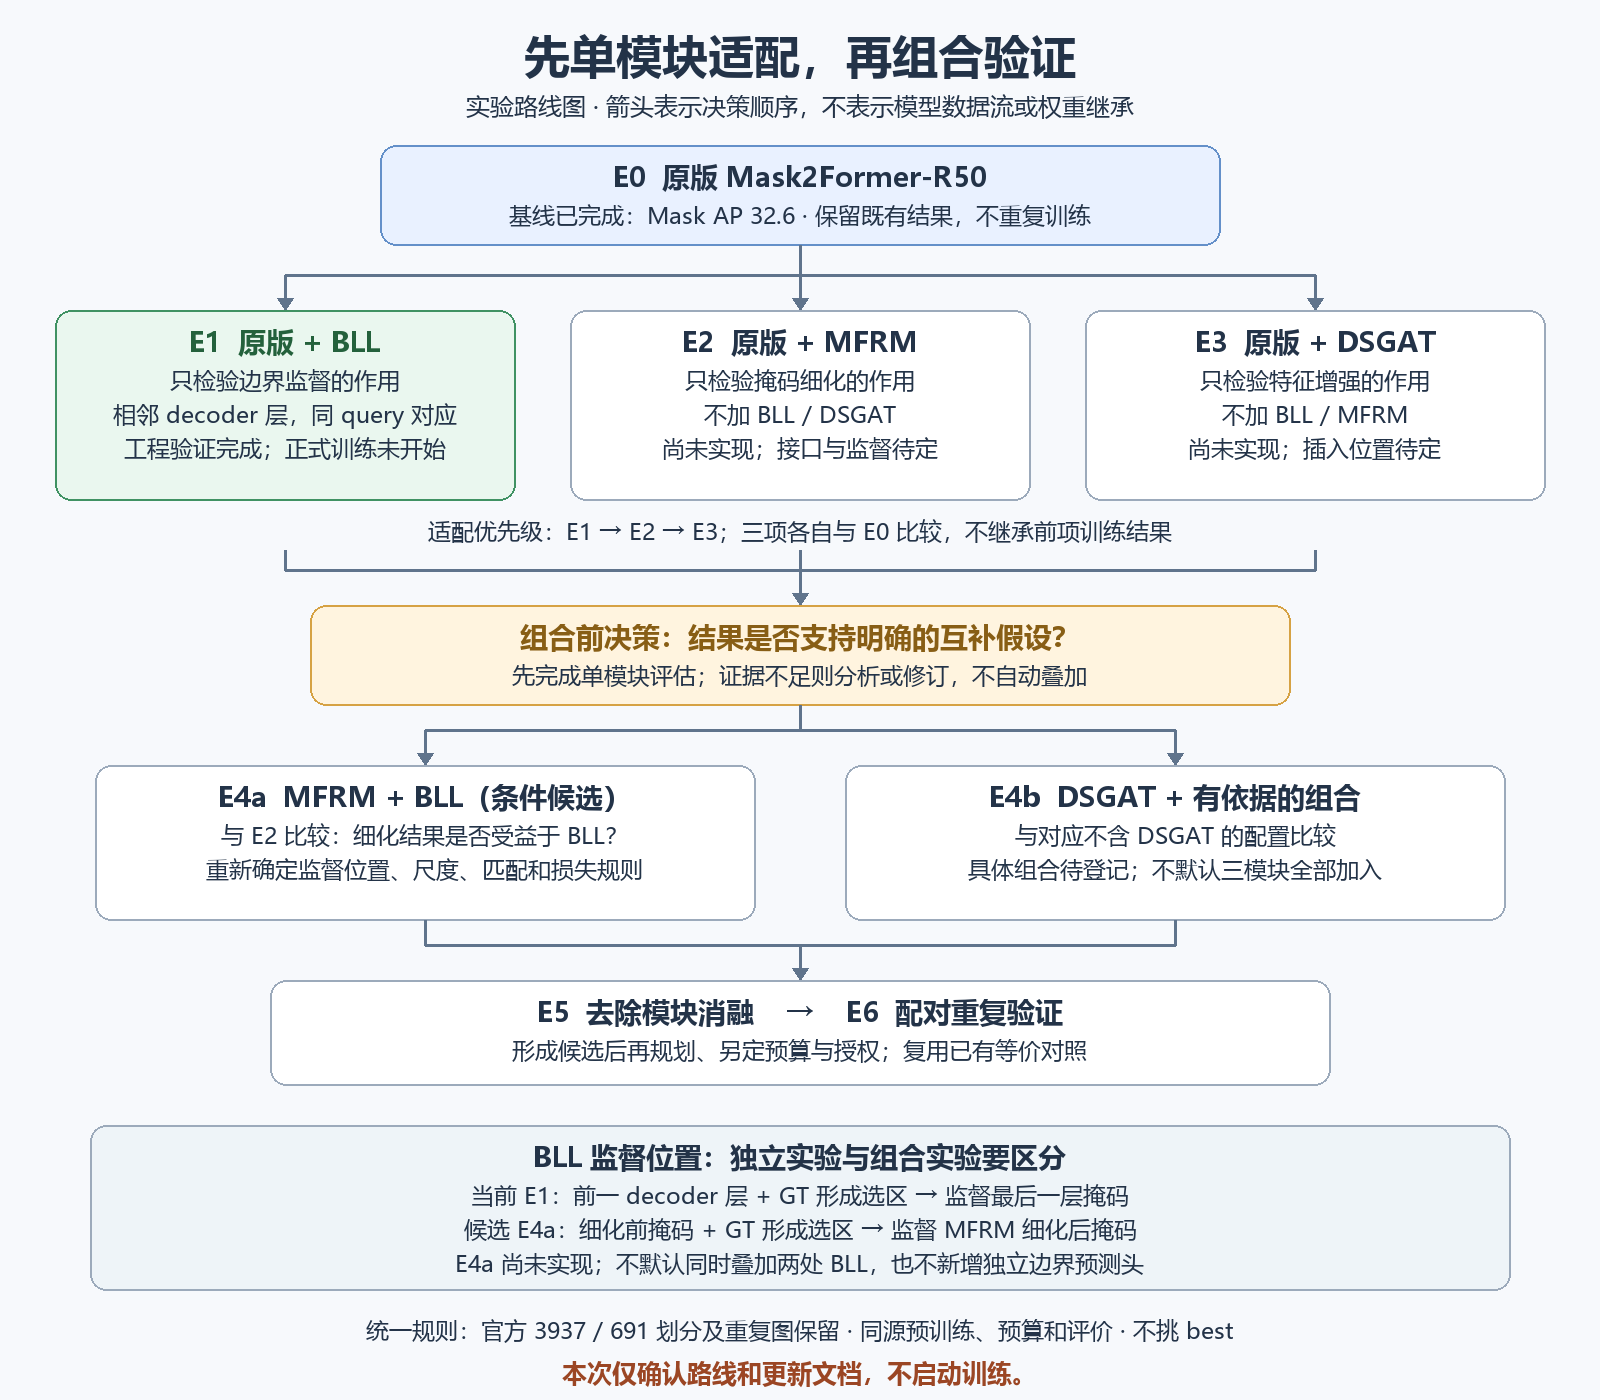
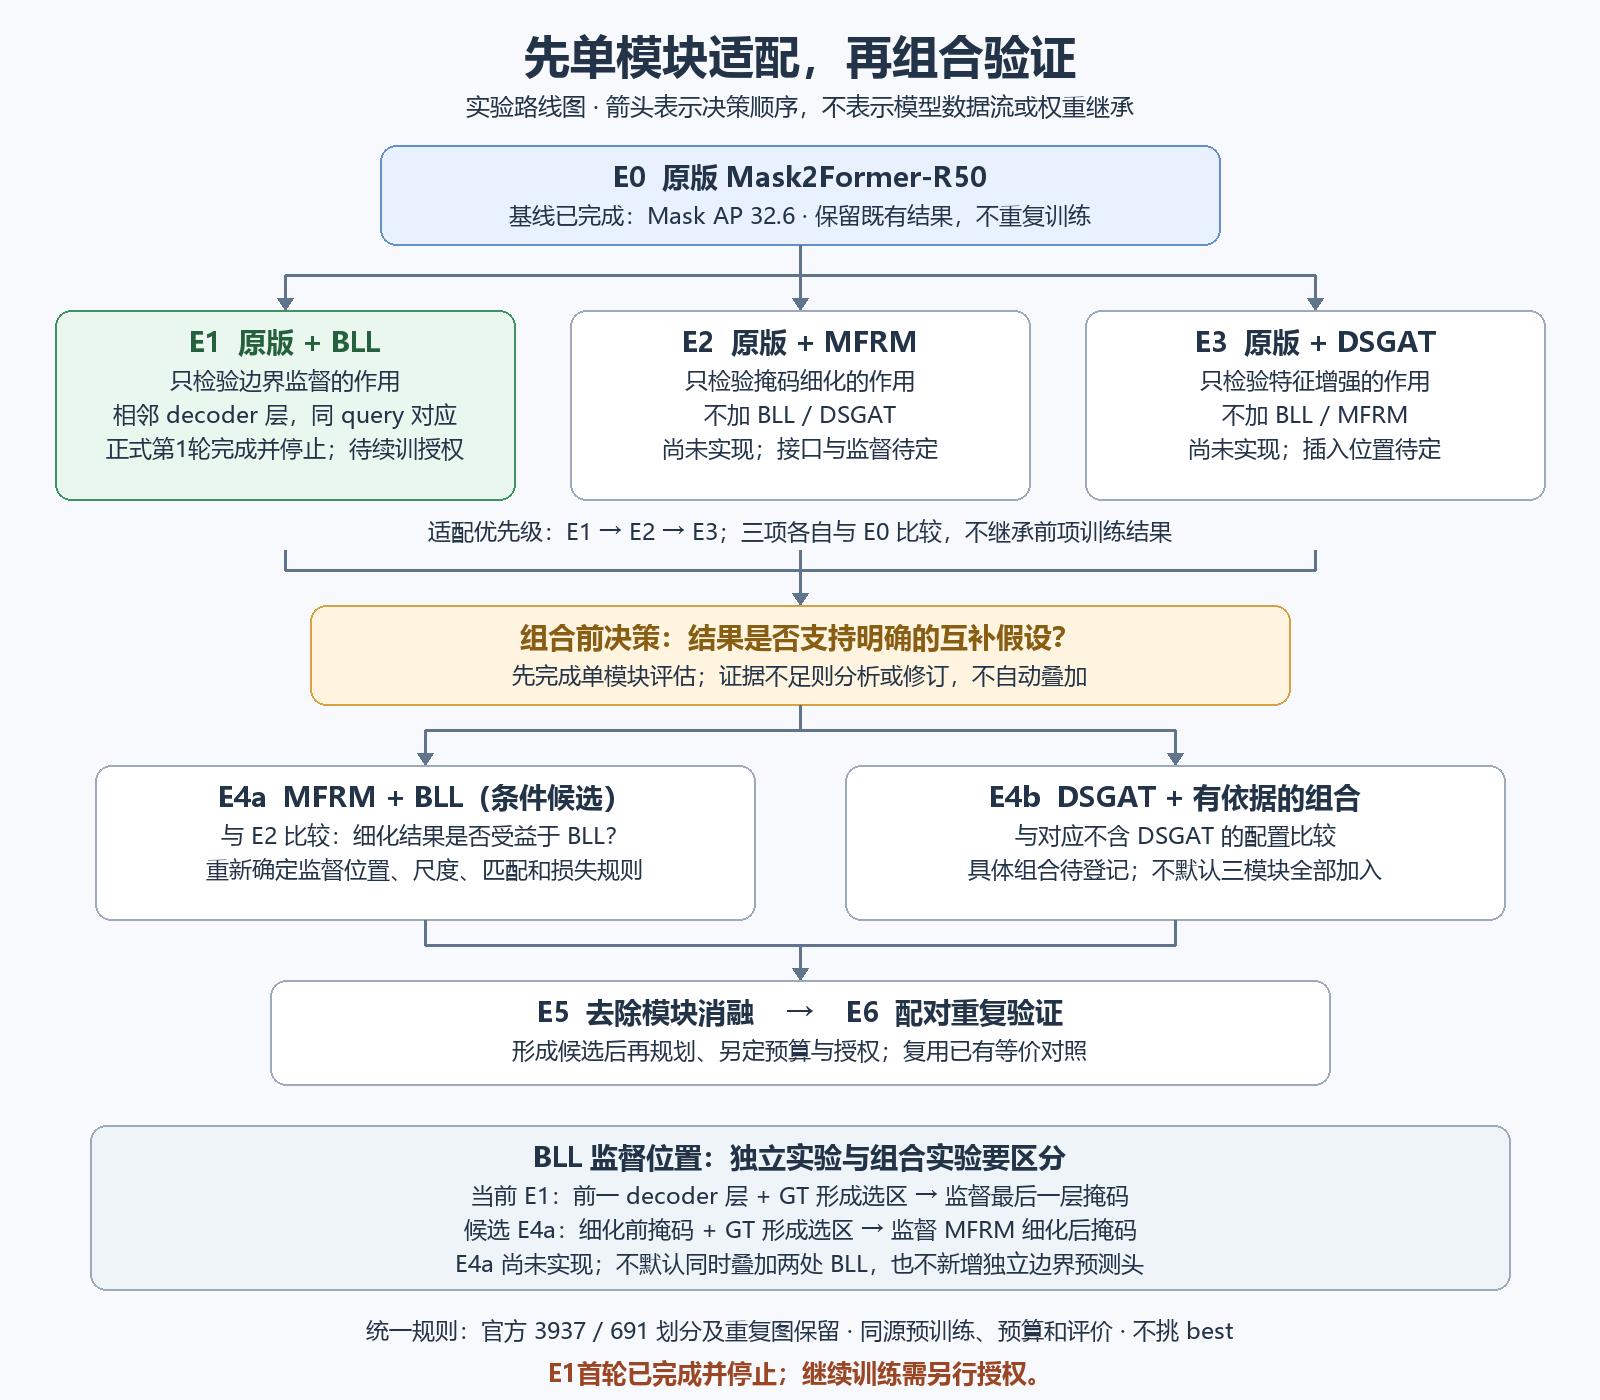
Record completed BLL formal first epoch and stopped checkpoint inspection

Changed region(s): [[0.3438, 0.9521, 0.6562, 1.0], [0.0625, 0.3071, 0.2812, 0.3379]]

diff --git a/scripts/inspect-e1-first-epoch.py b/scripts/inspect-e1-first-epoch.py
@@ -1,0 +1,96 @@
+"""Inspect the stopped E1 epoch-1 checkpoint and logs, without training/resume."""
+import ast
+import hashlib
+import json
+import math
+import re
+import traceback
+from pathlib import Path
+import torch
+
+ROOT=Path(__file__).resolve().parents[1]
+OUT=ROOT/'reports/e1-first-epoch'
+WORK=ROOT/'work_dirs/uiis_e1_bll_r50_36e'
+
+
+def sha(path):
+    h=hashlib.sha256()
+    with path.open('rb') as f:
+        for b in iter(lambda:f.read(1048576),b''):h.update(b)
+    return h.hexdigest()
+
+
+def main():
+    torch.set_num_threads(2)
+    output=OUT/'inspection.json'
+    if output.exists():raise FileExistsError(output)
+    result=dict(passed=False,training_resumed=False)
+    try:
+        process=json.loads((OUT/'process-result.json').read_text())
+        first=json.loads((WORK/'result-first.json').read_text())
+        pre=json.loads((OUT/'preflight.json').read_text())
+        protocol=json.loads((WORK/'run-protocol.json').read_text())
+        assert process['returncode']==0 and first['stage']=='first' and not first['verification']
+        assert first['completed_epochs']==1 and first['completed_iterations']==1969
+        assert first['load_check']['compatible_values_exact'] and first['load_check']['class_initialization_retained']
+        assert first['load_check']['compatible_tensors']==608
+        assert set(first['load_check']['mismatched_keys'])=={'panoptic_head.cls_embed.weight','panoptic_head.cls_embed.bias'}
+        assert sorted(p.name for p in WORK.glob('epoch_*.pth'))==['epoch_1.pth']
+        assert not (WORK/'result-resume.json').exists()
+        checkpoint=WORK/'epoch_1.pth'
+        assert Path((WORK/'last_checkpoint').read_text().strip())==checkpoint
+        saved=torch.load(checkpoint,map_location='cpu')
+        assert saved['meta']['epoch']==1 and saved['meta']['iter']==1969
+        assert len(saved['state_dict'])==610
+        assert all(torch.isfinite(v).all() for v in saved['state_dict'].values())
+        states=saved['optimizer']['state'];assert len(states)==345
+        steps=set()
+        for state in states.values():
+            steps.add(int(state['step']))
+            assert all(torch.isfinite(v).all() for v in state.values() if torch.is_tensor(v))
+        assert steps=={1969}
+        lrs=sorted(set(g['lr'] for g in saved['optimizer']['param_groups']))
+        assert lrs==[.00001,.0001] and lrs==first['lrs']
+        assert saved['param_schedulers'] and 'bll_guard' in saved
+        assert saved['bll_guard']['empty_streak']<3
+        text=(OUT/'console.log').read_text(errors='replace')
+        assert 'FIRST_EPOCH_GATE: checkpoint saved; stopping for inspection' in text
+        assert 'BLL_RUNNER_STAGE_OK' in text and 'Epoch(train)  [2]' not in text
+        for marker in ['Traceback (most recent call last)','CUDA out of memory','BLL_GT_VANISHED','BLL_EMPTY_REGION_STREAK','NONFINITE_MODEL_PARAMETER']:
+            assert marker not in text,marker
+        diagnostics=[ast.literal_eval(l.split('BLL_DIAGNOSTIC ',1)[1]) for l in text.splitlines() if 'BLL_DIAGNOSTIC ' in l]
+        assert len(diagnostics)==40 and all(d['vanished']==0 for d in diagnostics)
+        metric_files=list(WORK.glob('*/vis_data/scalars.json'));assert len(metric_files)==1
+        rows=[json.loads(l) for l in metric_files[0].read_text().splitlines() if l.strip()]
+        losses=[r for r in rows if 'loss_bll' in r];assert losses
+        assert all(math.isfinite(v) for r in losses for k,v in r.items() if isinstance(v,(float,int)) and ('loss' in k or k=='grad_norm'))
+        assert all(r.get('epoch',1)==1 for r in losses)
+        assert all(sha(ROOT/f)==h for f,h in protocol['source_sha256'].items())
+        assert all(protocol['source_sha256'][f]==pre['expected_sources']['sources'][f] for f in protocol['source_sha256'])
+        assert sha(ROOT/'data/UIIS/annotations/train.json')==pre['train_sha256']==protocol['train_sha256']
+        assert sha(ROOT/'data/UIIS/annotations/val.json')==pre['val_sha256']==protocol['val_sha256']
+        assert sha(ROOT/'work_dirs/uiis_baseline_r50_36e/epoch_36.pth')==pre['e0_sha256']
+        ranges={k:dict(first=losses[0][k],last=losses[-1][k],minimum=min(r[k] for r in losses),maximum=max(r[k] for r in losses)) for k in ['loss','loss_bll']}
+        memories=[int(x) for x in re.findall(r'memory:\s*(\d+)',text)]
+        result.update(passed=True,process=process,first=first,checkpoint_sha256=sha(checkpoint),
+            checkpoint_bytes=checkpoint.stat().st_size,checkpoint_meta=dict(epoch=1,iter=1969),
+            state_tensors=610,optimizer_states=345,optimizer_step_values=sorted(steps),lrs=lrs,
+            scheduler=saved['param_schedulers'],bll_guard=saved['bll_guard'],
+            all_model_optimizer_tensors_finite=True,diagnostic_records=len(diagnostics),
+            logged_selected_pixels_range=[min(d['selected_pixels'] for d in diagnostics),max(d['selected_pixels'] for d in diagnostics)],
+            logged_vanished=0,logged_loss_rows=len(losses),logged_loss_ranges=ranges,
+            max_logged_memory_mib=max(memories),data_and_e0_unchanged=True,core_sources_unchanged=True,
+            checkpoint_file=str(checkpoint),limitations=[
+                'Loss rows are logger window averages, not all per-step values or AP.',
+                'Runtime guards check every step; diagnostics are sampled every 50 steps.',
+                'Read-only checkpoint integrity inspection, not a new Runner resume or training trajectory test.',
+                'One training epoch cannot establish accuracy improvement; no test-set evaluation.'])
+    except Exception:
+        result['error']=traceback.format_exc();raise
+    finally:
+        result['inspection_script_sha256']=sha(Path(__file__))
+        output.write_text(json.dumps(result,indent=2,default=str)+'\n')
+    print('E1_FIRST_EPOCH_INSPECTION_PASSED',flush=True)
+
+
+if __name__=='__main__':main()

diff --git a/scripts/draw-module-roadmap.py b/scripts/draw-module-roadmap.py
@@ -43,7 +43,7 @@ for x in [285,800,1315]:line([(x,275),(x,310)],True)
 box(55,310,460,190,'E1  原版 + BLL',[
     '只检验边界监督的作用',
     '相邻 decoder 层，同 query 对应',
-    '工程验证完成；正式训练未开始'], '#eaf7ef','#409263','#24613c')
+    '正式第1轮完成并停止；待续训授权'], '#eaf7ef','#409263','#24613c')
 box(570,310,460,190,'E2  原版 + MFRM',[
     '只检验掩码细化的作用',
     '不加 BLL / DSGAT',
@@ -77,7 +77,7 @@ box(90,1125,1420,165,'BLL 监督位置：独立实验与组合实验要区分',[
     '候选 E4a：细化前掩码 + GT 形成选区 → 监督 MFRM 细化后掩码',
     'E4a 尚未实现；不默认同时叠加两处 BLL，也不新增独立边界预测头'], '#eef4f8','#9caabb')
 text(800,1330,'统一规则：官方 3937 / 691 划分及重复图保留 · 同源预训练、预算和评价 · 不挑 best',23)
-text(800,1372,'本次仅确认路线和更新文档，不启动训练。',25,'#9b4624',True)
+text(800,1372,'E1首轮已完成并停止；继续训练需另行授权。',25,'#9b4624',True)
 svg.append('</svg>')
 OUT.mkdir(exist_ok=True)
 (OUT/'module-adaptation-roadmap.svg').write_text('\n'.join(svg),encoding='utf-8')

diff --git a/docs/e1-first-epoch-result.md b/docs/e1-first-epoch-result.md
@@ -1,0 +1,47 @@
+# E1：BLL正式第1轮完成并停止
+
+2026-10-22。用户授权最后检查通过后只运行第1轮、完成后停止检查。该轮属于正式36轮预算，不是技术短试跑；未继续第2轮，未运行其他模块实验。
+
+## 启动依据
+
+scripts/check-e1-first-epoch.py确认全部4631个官方文件哈希正确，3937/691划分及重复图片保留；COCO预训练、E0最终权重、训练源码及已通过的完整模型报告一致。除已约定的BLL/head注册/目录外，配置与实际E0关键字段一致。GPU空闲、磁盘剩余约35.5 GiB、训练锁空闲且E1目录不存在。preflight.json为passed=true。
+
+从原COCO预训练初始化，608个兼容状态张量值核对通过；仅分类层weight/bias由81输出改8输出，保留新初始化，不是加载故障。不使用E0最终权重或技术试跑checkpoint初始化。配置仍为36轮、70884步、batch2、workers2、FP32、seed20261012，BLL weight1/width3和块内前景占有规则不变。
+
+## 实际运行与停止
+
+2026-10-22 17:05:18启动，17:30:01进程结束，包含启动和保存共1482.79秒（约24分43秒）。入口scripts/train-uiis-bll.py使用--stage first --execute-formal；后台监督进程记录退出状态，控制台输出落文件，避免SSH断开影响训练。FIRST_EPOCH_GATE在epoch_1.pth保存后停止，退出码0；result-first.json确认epoch=1、iter=1969、verification=false。没有自动resume，没有第2轮记录。
+
+| 检查项 | 实测 |
+| --- | --- |
+| 正式完成预算 | 1/36轮，1969/70884步 |
+| 总损失日志 | 首条44.2299，末条26.9223；范围23.7323–44.2299 |
+| BLL损失日志 | 首条0.9119，末条0.7150；范围0.6823–0.9783 |
+| 日志采样 | 39条loss记录（第50–1950步的窗口统计），40条BLL诊断 |
+| BLL选区采样范围 | 1752–24367像素，采样标注消失数0 |
+| 每步停止保护 | 未触发非有限损失/模型参数、GT消失、连续空选区保护；未见OOM |
+| 结束空选区连续计数 | 0 |
+| 日志最高memory | 14185 MiB；不是精确增量显存或效率对比 |
+| 优化器学习率 | backbone组1e-5，其余相关组1e-4，尚未到27/33轮衰减 |
+
+日志是窗口统计，不是每一步loss明细；第1969步完成由Runner结果和checkpoint/优化器计数交叉证明。训练loss下降不等于AP提升；没有在691张测试集上评估或选best。
+
+## 停止后只读验收
+
+scripts/inspect-e1-first-epoch.py运行通过，inspection.json passed=true、training_resumed=false：
+
+- 唯一轮次检查点为epoch_1.pth，last_checkpoint指向它，无result-resume.json或epoch2文件。
+- checkpoint的610个模型状态张量全部有限；345组AdamW状态全部有限，全部step=1969。优化器、调度器和BLL计数已保存，轮次/步数/学习率一致。
+- 完整日志有首轮自动停止和BLL_RUNNER_STAGE_OK标记，无所列异常；原COCO加载核验通过。
+- 核心源码、训练/测试标注、E0权重哈希未变。结束GPU显存0 MiB，无训练进程，训练锁已释放。
+
+这次仅做checkpoint内容完整性检查，不启动新的Runner恢复或额外更新；此前epoch边界恢复已验收，不据此声称任意步中断或GPU轨迹逐位等价。
+
+服务器目录work_dirs/uiis_e1_bll_r50_36e；epoch_1.pth大小529804636字节，SHA256为4a40dc4a90b1e8e3e90e1ab538c0c74ae3081e186630e27603a6d84887e6e356。报告、启动记录、控制台、协议、配置及Runner日志取回reports/e1-first-epoch；这些文件和权重被Git忽略，不能只靠Git保存。
+
+## 结论与下一步
+
+正式首轮完成并通过工程验收，可以作为后续同一次E1续训的起点。当前保持停止，不自动继续。下一步需要用户明确授权后，先核对现场资源及同一协议，再从epoch_1恢复到第2轮及后续约定预算；不重新初始化、不重复第一轮、不改BLL参数、不提前看测试AP。E2/MFRM、E3/DSGAT和组合均未开始。
+
+
+首轮权重已备份至checkpoints/e1-backup/epoch_1.pth，大小与SHA256均与服务器验收报告一致，证明在reports/e1-first-epoch/local-backup.json。配置/协议/首轮结果一并备份；代码、文档和路线图状态已更新。

diff --git a/docs/e1-bll-training-plan.md b/docs/e1-bll-training-plan.md
@@ -1,4 +1,6 @@
-# E1：BLL单模块正式训练方案（已制定，未启动）
+# E1：BLL单模块正式训练方案（第1轮已完成并停止）
+
+2026-10-22最新状态：用户授权后正式第1轮1969步已完成，自动停止及只读验收通过；未进入第2轮，续训需另行授权。见[首轮结果](e1-first-epoch-result.md)。下文制定/审计时间线保留历史，不作重复启动指令。
 
 2026-10-22更新。总体顺序和组合边界见[单模块适配与组合验证计划](module-adaptation-plan.md)。E1仅为独立BLL；E2/E3分别独立适配MFRM/DSGAT，再决定E4。当前E1监督原decoder最后层，不等于未来MFRM细化后的BLL；组合需单独协议，不自动叠加两处损失。
 
